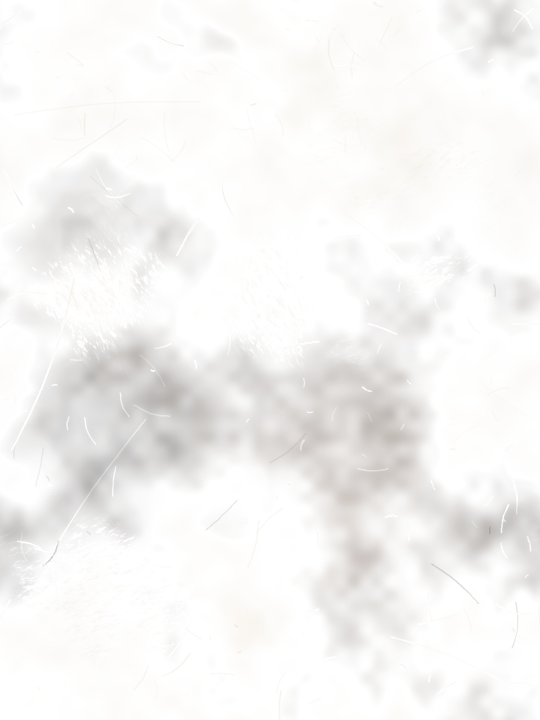
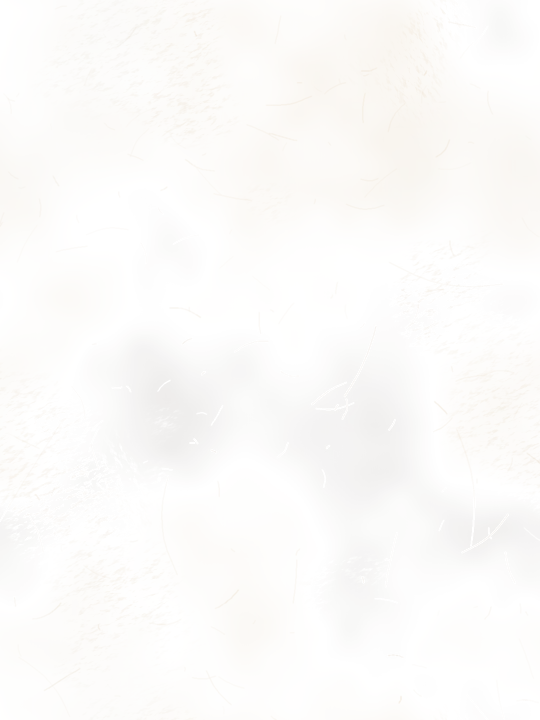
Make the cover leather weathered rather than dirty
The wear layer no longer has dark stains, cuts or smoky mottling. Dye now
fades unevenly and deepens only slightly; scratches and rubbed patches are
pale; the dark vignette at the edges is lighter.

Claude-Session: https://claude.ai/code/session_013ungtX97ksePF4x5XryymQ

diff --git a/web/src/doc.css b/web/src/doc.css
@@ -130,8 +130,8 @@
 .sheet-paper { container-type: inline-size; background: #fff; color: #1c231f; border-radius: 4px; box-shadow: var(--shadow-lg); padding: clamp(22px, 6.5%, 64px); }
 
 /* Cookbook covers are bound in old leather. From the bottom up: the dye, a fine shallow grain, a layer of wear
-   (uneven dye, rubbed patches, scratches) that each book shows a different part of, then edges rubbed pale,
-   corners darkened by hands, and a hinge by the spine. The lettering is stamped in worn gilt. */
+   (faded dye, rubbed patches, scratches) that each book shows a different part of, then edges and corners
+   rubbed pale and a hinge by the spine. Worn, not stained. The lettering is stamped in worn gilt. */
 .cover {
   --c: #24362b; --c-ink: #d8c592; --wear: 1; --rub: rgb(226 204 166 / 0.2); --wx: 0%; --wy: 0%;
   position: relative; display: grid; align-content: center; justify-items: center; text-align: center; gap: 0.5em;
@@ -145,7 +145,7 @@
     linear-gradient(to top, var(--rub), transparent 1.8%),
     radial-gradient(34% 26% at 100% 0, var(--rub), transparent 70%),
     radial-gradient(34% 26% at 100% 100%, var(--rub), transparent 70%),
-    radial-gradient(130% 100% at 48% 42%, transparent 38%, rgb(12 8 4 / 0.42) 100%),
+    radial-gradient(130% 100% at 48% 42%, transparent 46%, rgb(12 8 4 / 0.24) 100%),
     url('./assets/leather.webp');
   background-size: auto, auto, auto, auto, auto, auto, auto, 40% auto;
   box-shadow: inset 0 0 0 1px rgb(255 255 255 / 0.04), inset 0 -0.2em 0.45em -0.2em rgb(0 0 0 / 0.4);
@@ -159,8 +159,8 @@
 .cover i { font-size: 7cqw; line-height: 1.3; opacity: 0.8; text-wrap: balance; text-shadow: 0 -1px 0 rgb(0 0 0 / 0.4); }
 .cover svg { width: 14cqw; height: 14cqw; margin-top: 5cqw; opacity: 0.82; filter: drop-shadow(0 -1px 0 rgb(0 0 0 / 0.4)); }
 .cover.bay { --c: #24362b; } .cover.tomato { --c: #5c2620; } .cover.ocean { --c: #1d3441; } .cover.plum { --c: #3a2637; } .cover.charcoal { --c: #1f2122; }
-.cover.butter { --c: #a98740; --c-ink: #2c2210; --wear: 0.72; --rub: rgb(244 228 190 / 0.3); }
-.cover.paper { --c: #c8ba9b; --c-ink: #33291a; --wear: 0.62; --rub: rgb(250 242 222 / 0.34); }
+.cover.butter { --c: #a98740; --c-ink: #2c2210; --rub: rgb(244 228 190 / 0.3); }
+.cover.paper { --c: #c8ba9b; --c-ink: #33291a; --rub: rgb(250 242 222 / 0.34); }
 .cover.butter b, .cover.butter i, .cover.paper b, .cover.paper i { text-shadow: 0 1px 0 rgb(255 255 255 / 0.28); }
 
 .toc { font-family: var(--serif); }

diff --git a/scripts/leather.py b/scripts/leather.py
@@ -4,7 +4,7 @@
     python3 scripts/leather.py
 
     web/src/assets/leather.webp   a seamless tile of fine, shallow grain
-    web/src/assets/patina.webp    one cover's worth of wear: mottled dye, rubbed patches and scratches
+    web/src/assets/patina.webp    one cover's worth of wear: faded dye, rubbed patches and scratches
 
 Both are a dark or a pale colour with varying alpha, so they sit on any cover
 colour without blend modes. Needs numpy and Pillow.
@@ -82,10 +82,11 @@ Image.fromarray(rgba(shade, (22, 13, 8), (255, 243, 222), 0.34, 0.16), 'RGBA').s
 W, H = 540, 720
 S = (H, W)
 
-# Dye that took unevenly and darkened with handling; paler where it has dried out.
-mottle = noise(S, (((3, 2), 1.0), ((6, 5), 0.8), ((13, 10), 0.55), ((28, 21), 0.35), ((60, 45), 0.2)))
-dark = 0.42 * np.clip(mottle, 0, 1) ** 1.3 + 0.16 * step(0.1, 0.9, noise(S, (((5, 4), 1.0), ((11, 8), 0.6), ((24, 18), 0.3))))
-pale = 0.24 * np.clip(-mottle - 0.1, 0, 1) ** 1.2
+# Dye that has faded unevenly with light and years, and deepened a little where hands have held it.
+# Wear lightens; nothing here is a stain.
+mottle = noise(S, (((3, 2), 1.0), ((6, 5), 0.7), ((13, 10), 0.35), ((28, 21), 0.12)))
+dark = 0.13 * np.clip(mottle, 0, 1) ** 1.5
+pale = 0.17 * np.clip(0.1 - mottle, 0, 1) ** 1.3
 
 # Rubbed patches: the surface abraded pale, faintly along one direction.
 streaks = Image.fromarray(((noise((900, 900), (((300, 90), 1.0), ((600, 220), 0.8), ((900, 450), 0.5))) * 0.5 + 0.5) * 255).astype(np.uint8))
@@ -94,11 +95,10 @@ for angle, lo in ((24, 0.25), (-58, 0.42)):
     grain = np.asarray(streaks.rotate(angle, Image.BICUBIC).crop((180, 90, 180 + W, 90 + H)), np.float32) / 255
     pale += 0.15 * zone * step(0.45, 0.9, grain)
 
-# Scratches and nicks, mostly pale, a few cut dark.
+# Fine scratches and nicks, where the surface has been caught and shows paler.
 marks = Image.new('L', (W * 2, H * 2), 0)
-cuts = Image.new('L', (W * 2, H * 2), 0)
-for layer, count, reach in ((marks, 170, 80), (marks, 16, 380), (cuts, 18, 120)):
-    pen = ImageDraw.Draw(layer)
+for count, reach in ((170, 80), (16, 380)):
+    pen = ImageDraw.Draw(marks)
     for _ in range(count):
         x, y, a = rng.random() * W * 2, rng.random() * H * 2, rng.random() * np.pi
         n = rng.random() ** 2 * reach + 8
@@ -106,12 +106,11 @@ for layer, count, reach in ((marks, 170, 80), (marks, 16, 380), (cuts, 18, 120))
         pts = [(x + np.cos(a) * n * t + np.sin(a) * bend * np.sin(t * np.pi), y + np.sin(a) * n * t - np.cos(a) * bend * np.sin(t * np.pi)) for t in np.linspace(0, 1, 9)]
         pen.line(pts, fill=int(70 + rng.random() * 150), width=1 if rng.random() < 0.8 else 2)
 small = lambda im: np.asarray(im.filter(ImageFilter.GaussianBlur(0.9)).resize((W, H), Image.LANCZOS), np.float32) / 255
-pale += 0.42 * small(marks)
-dark += 0.4 * small(cuts)
+pale += 0.38 * small(marks)
 
-# The stain runs from warm umber to a cold near-black, the wear from tan to grey.
+# The deepening is a warm brown; the wear runs from tan to grey.
 warm = (noise(S, (((4, 3), 1.0), ((9, 7), 0.5))) * 0.5 + 0.5)[..., None]
-stain = (62, 32, 12) * warm + (20, 17, 16) * (1 - warm)
+stain = np.broadcast_to(np.array((46, 27, 14), np.float32), S + (3,))
 worn = (214, 184, 140) * warm + (226, 222, 212) * (1 - warm)
 signed = pale - dark
 out = np.zeros(S + (4,), np.uint8)

diff --git a/CHANGELOG.md b/CHANGELOG.md
@@ -5,7 +5,7 @@
 - **Cookbook pages are re-typeset** after a classic cookbook spread: the chapter as a running head, the title in letterspaced capitals, a justified headnote over a hairline, the yield and times above a narrow sans-serif ingredient column, the method beside it with small hanging step numbers, the notes in a tinted box at the foot of the page and the recipe's number beneath. Modern and Compact share the new structure.
 - **A photograph faces its recipe.** In a shared cookbook each recipe is a spread, photo on the left; on a phone the photo sits above the recipe. Printed, the photo takes a page of its own, to the edges of the paper.
 - **A printed recipe keeps to one sheet when it can.** The photo and the whole ingredient list stay on the first page. The print preview is now a scale model of the sheet: it sets the recipe at up to five tightnesses, uses the roomiest that fits one page, never goes below about 10 pt, and says how many pages will print.
-- **Cookbook covers are bound in old leather**: a fine, shallow grain, unevenly taken dye, rubbed patches and scratches, edges worn pale, a hinge by the spine and lettering stamped in worn gilt. Each book shows its own wear. The seven cover colours are deeper and more muted.
+- **Cookbook covers are bound in old leather**: a fine, shallow grain, dye faded unevenly, rubbed patches and fine scratches, edges and corners worn pale, a hinge by the spine and lettering stamped in worn gilt. Each book shows its own wear. The seven cover colours are deeper and more muted.
 - Fixed: printed notes could jump to a second page with room to spare; the Compact style drew a stray outline.
 
 ## 2.0.0
